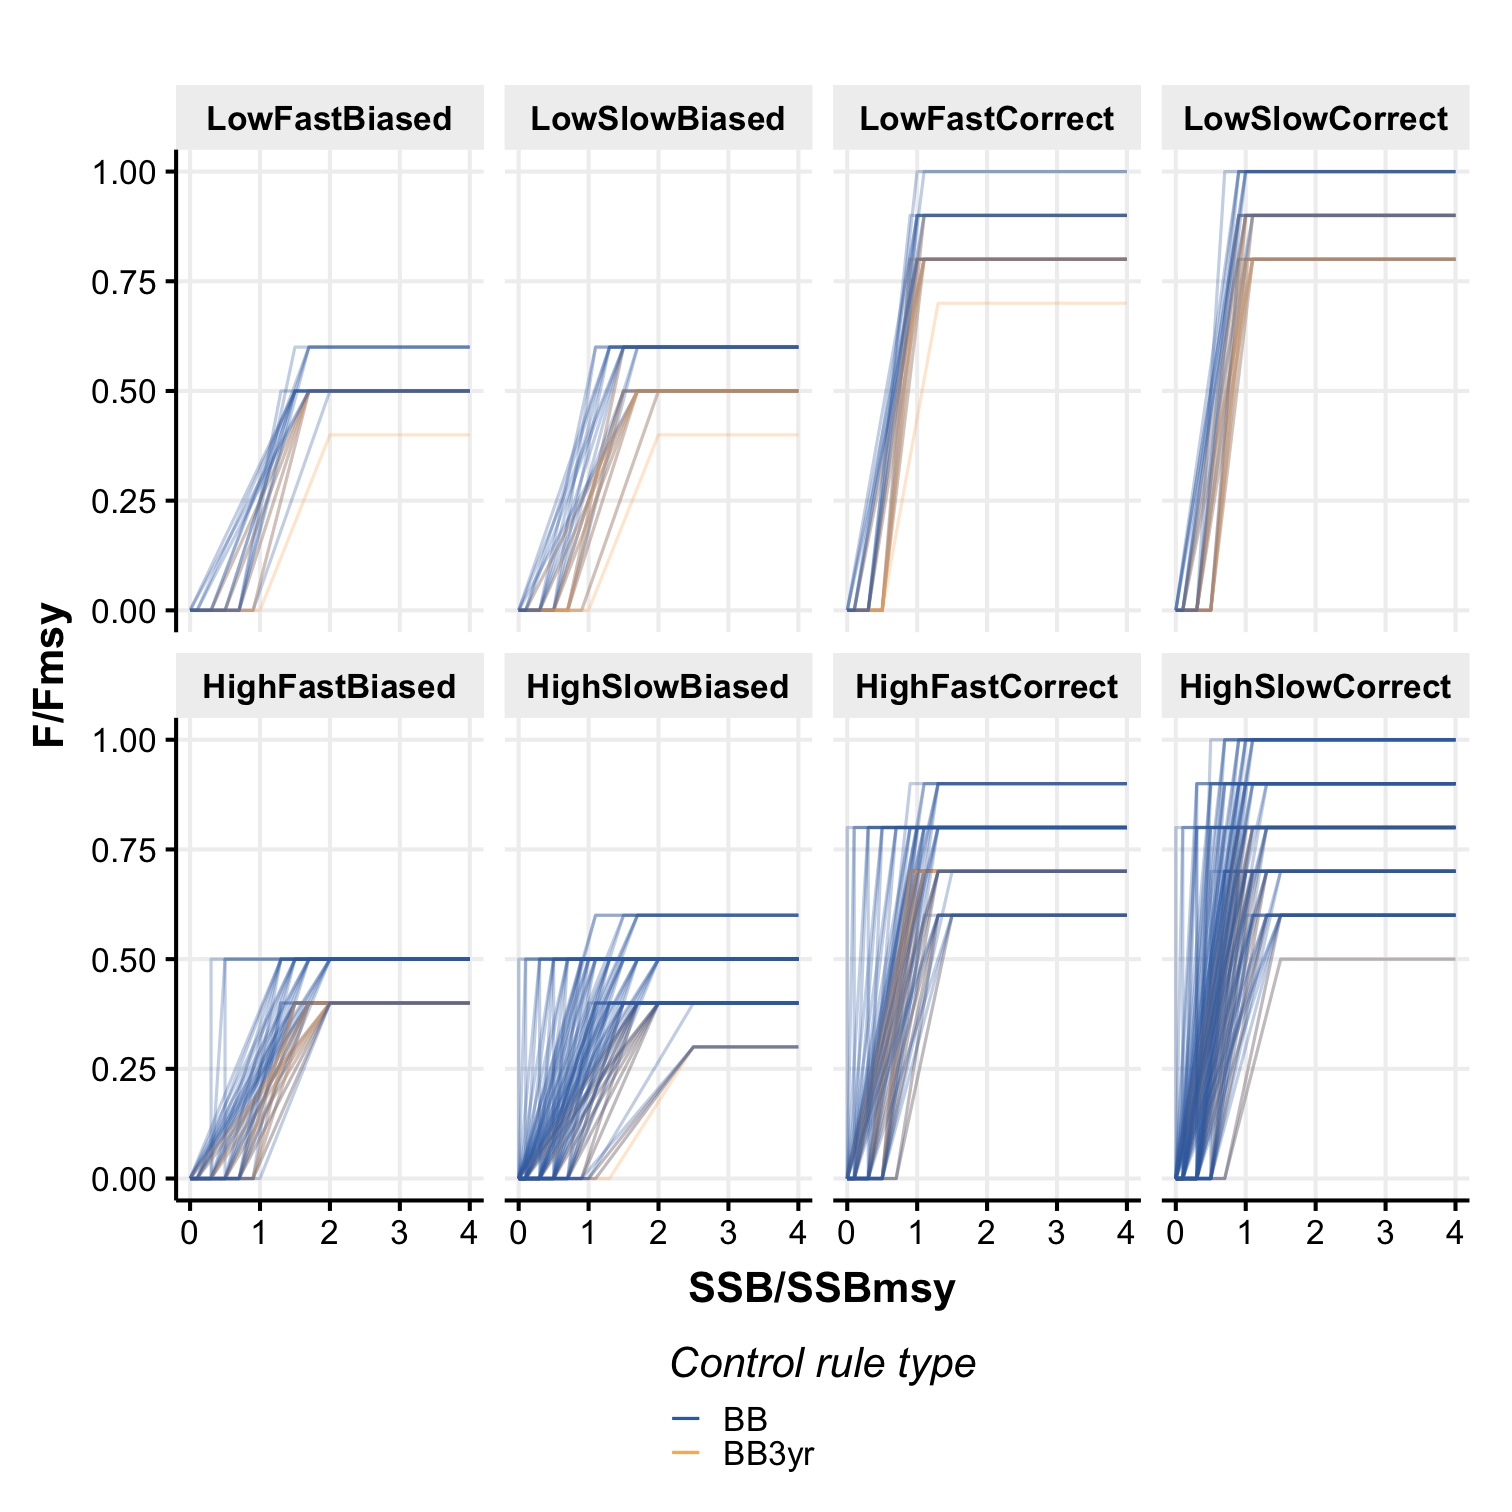
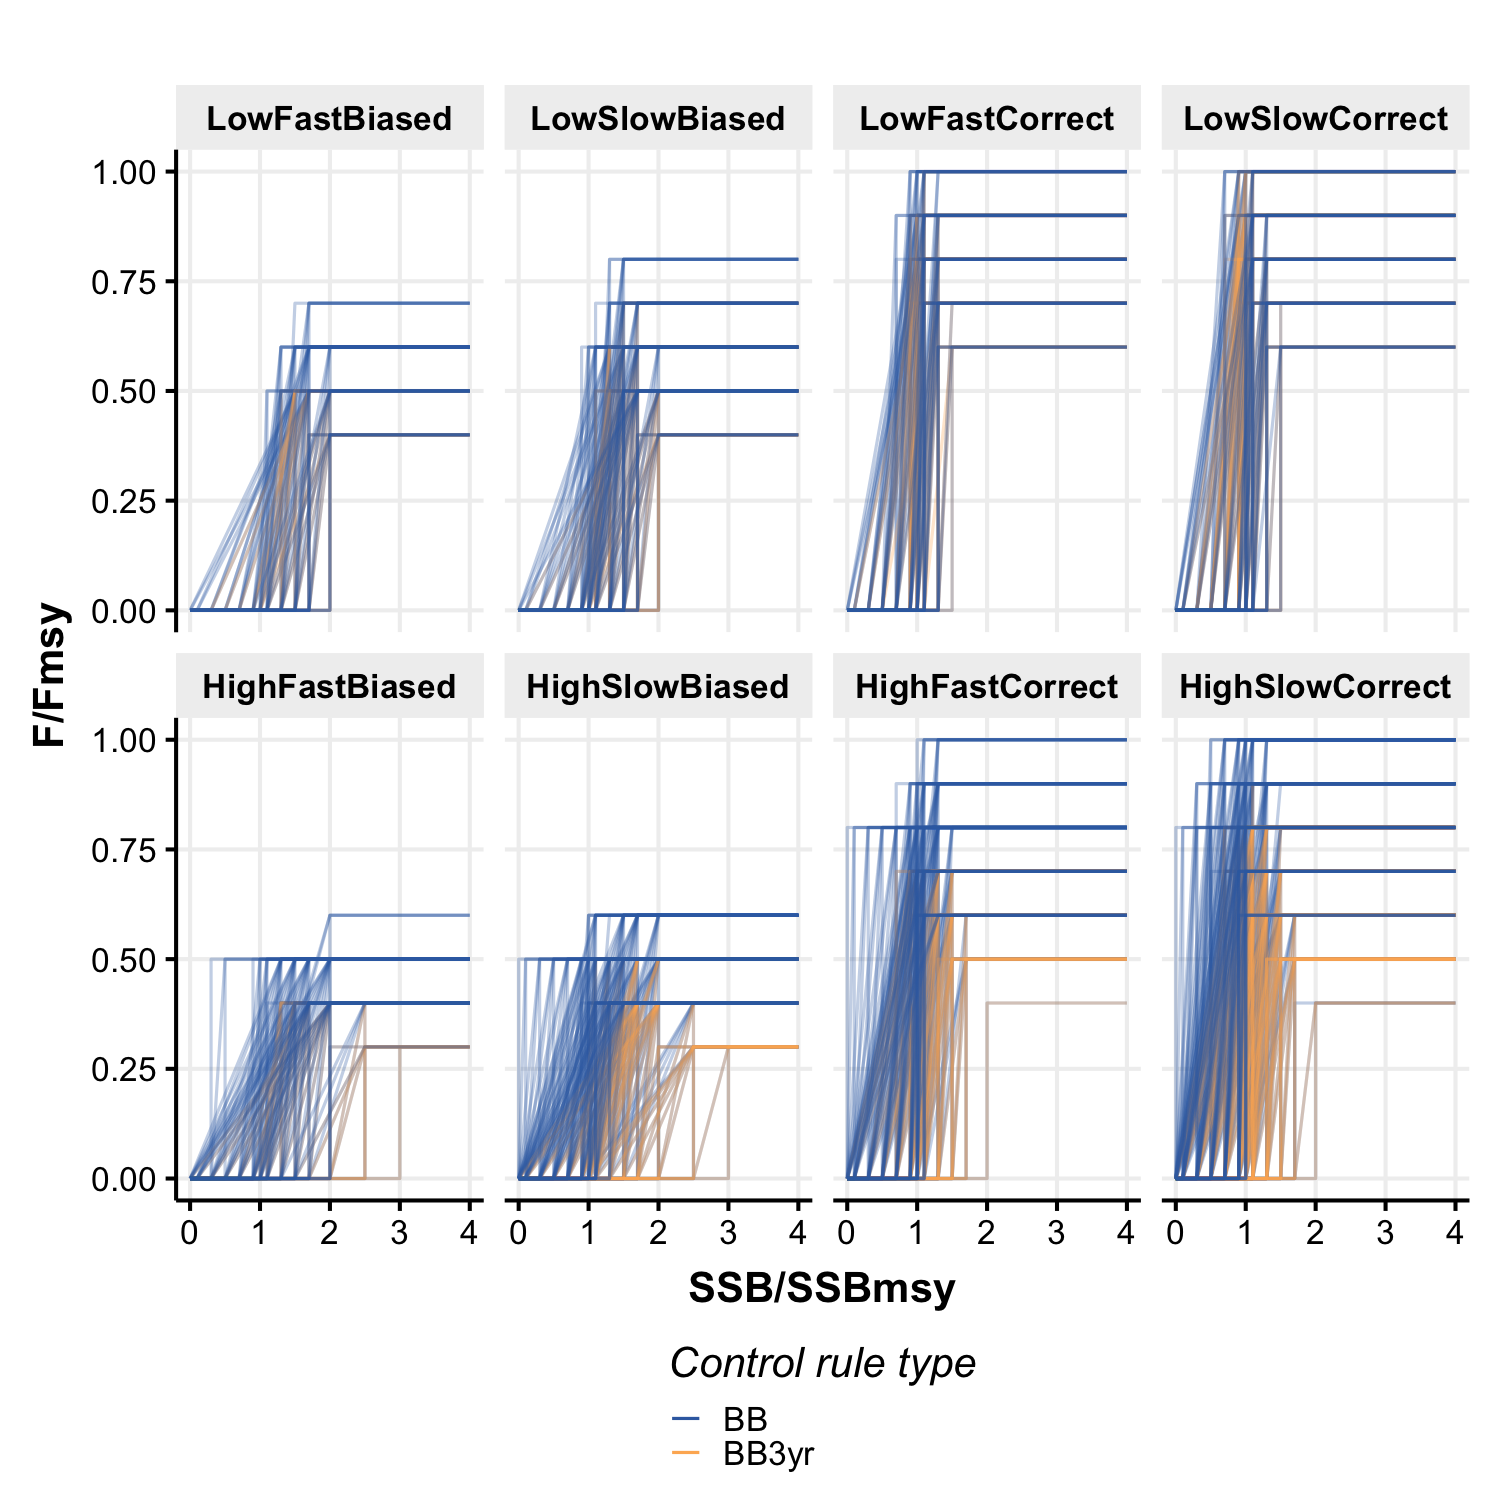
update figs and eqns

diff --git a/docs/20200716_MSEUncertainty_Gaichas.html b/docs/20200716_MSEUncertainty_Gaichas.html
@@ -23,6 +23,8 @@ class: top, left
 
 
 
+
+
 # Deep Uncertainty and Robust Decision Making (RDM)
 
 .pull-left[
@@ -154,16 +156,19 @@ Uncertainties identified
 | HighSlowBiased       | High: low M, high h (0.79) | 2005-2014: slow | 60% overestimate |
 | HighFastCorrect      | High: low M, high h (0.79) | 1976-1985: fast | None             |
 | HighSlowCorrect      | High: low M, high h (0.79) | 2005-2014: slow | None             |
-&lt;a name=cite-deroba_dream_2018&gt;&lt;/a&gt;([Deroba, Gaichas, Lee, Feeney, Boelke, and Irwin, 2018](http://www.nrcresearchpress.com/doi/10.1139/cjfas-2018-0128)) ] 
+] 
+&amp;nbsp;
+&amp;nbsp;
+
 ] 
 .pull-right-30[
-### Implementation Error
-Implementation errors were included as year-specific lognormal random deviations: 
+&lt;a name=cite-deroba_dream_2018&gt;&lt;/a&gt;([Deroba, Gaichas, Lee, Feeney, Boelke, and Irwin, 2018](http://www.nrcresearchpress.com/doi/10.1139/cjfas-2018-0128))
+]
+
+Implementation error was included as year-specific lognormal random deviations: 
 `\(F_{a,y}=\bar{F}_yS_ae^{\varepsilon_{\theta,y}-\frac{\sigma_\theta^2}{2}} \;\;\;  \varepsilon_{\theta} \sim N(0,\sigma_\theta^2)\)`
 
-]
-### Assessment Error
-Assessment error was modeled as a year-specific lognormal random deviation common to all ages, with first-order autocorrelation and a term that created the option to include bias `\(\rho\)`:
+Assessment error was modeled similarly, with first-order autocorrelation and an optional bias term `\(\rho\)`:
 `\(\widehat{N}_{a,y}=[N_{a,y}(\rho+1)]e^{\varepsilon_{\phi,y}-\frac{\sigma_\phi^2}{2}}\;\;\;\; \varepsilon_{\phi,y}=\vartheta\varepsilon_{\phi,y-1}+\sqrt{1-\vartheta^2}\tau_y \;\;\;\;  \tau \sim N(0,\sigma_\phi^2)\)` 
 
 ---
@@ -186,14 +191,19 @@ background-position: left
 
 ## Predators: deterministic population models and herring-predator links
 .pull-left[]
-.pull-right[
+.pull-right[.right[
 ![:img ternpoptrend, 100%](EDAB_images/ternpoptrend.png)
-]
+]]
 ---
-## Predator results summary
-&lt;img src="EDAB_images/herrtopreds_results.png" width="611" /&gt;
-
-Three control rule types--Constant catch, conditional constant catch, and 15% restriction on change--were rejected at the second stakeholder meeting for poor fishery and predator performance.
+background-image: url("EDAB_images/herrtopreds_results.png")
+background-size: 640px
+background-position: left
+## Results summary
+Three HCR types were rejected at the second stakeholder meeting for poor fishery and predator performance.
+.pull-left[]
+.pull-right[.right[
+&lt;img src="20200716_MSEUncertainty_Gaichas_files/figure-html/YAY-1.png" width="85%" /&gt;
+]]
 
 ---
 ## Managing tradeoffs under uncertainty: What control rules give us 90% of everything we want?
@@ -205,11 +215,11 @@ Three control rule types--Constant catch, conditional constant catch, and 15% re
 - AND fishery closures (F=0) less than 1% of the time (second plot).
 
 .pull-left[
-&lt;img src="20200716_MSEUncertainty_Gaichas_files/figure-html/unnamed-chunk-1-1.png" width="504" /&gt;
+&lt;img src="20200716_MSEUncertainty_Gaichas_files/figure-html/unnamed-chunk-2-1.png" width="504" /&gt;
 ]
 
 .pull-right[
-&lt;img src="20200716_MSEUncertainty_Gaichas_files/figure-html/unnamed-chunk-2-1.png" width="504" /&gt;
+&lt;img src="20200716_MSEUncertainty_Gaichas_files/figure-html/unnamed-chunk-3-1.png" width="504" /&gt;
 ]
 
 ---
